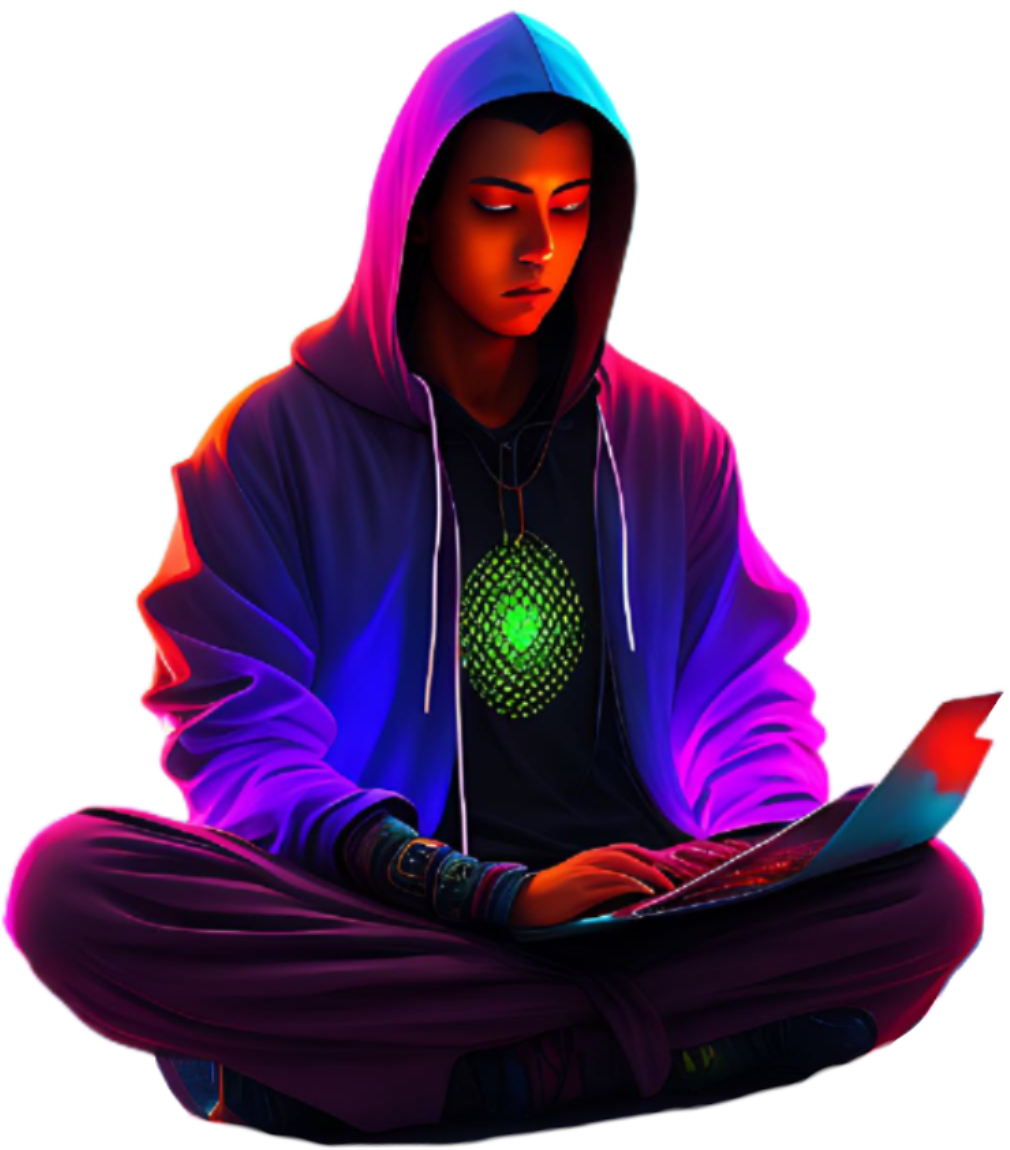
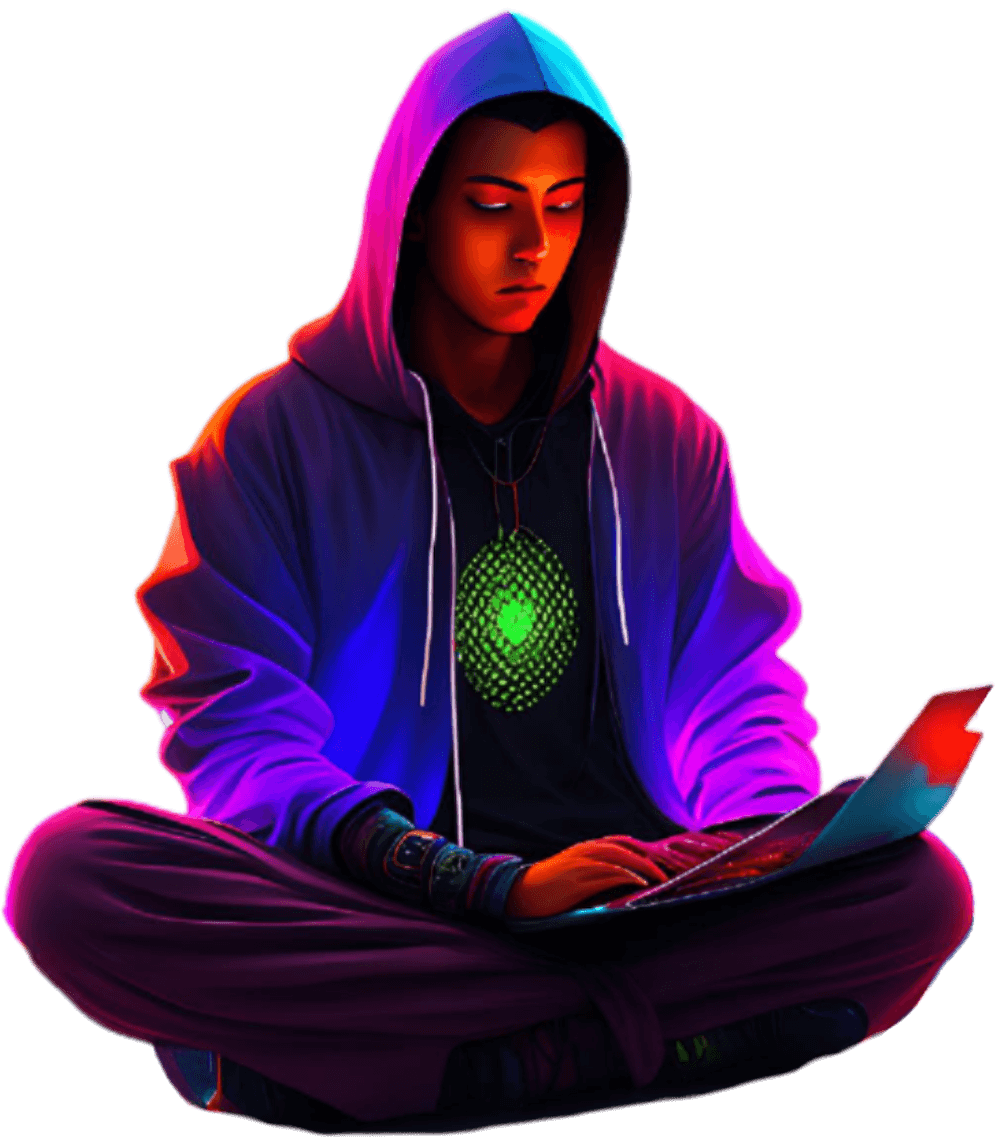
Optimize images

diff --git a/src/App.tsx b/src/App.tsx
@@ -1,78 +1,34 @@
-import { useLayoutEffect, useRef } from "react";
+import useMoveElementOnMouseMove from "./hooks/useMoveElementOnMouseMove";
+import imgBackground from "./image/background.png";
+import imgHacker from "./image/hacker.png";
+import imgBackpack from "./image/bagpack.png";
+import imgTeam from "./image/team.jpeg";
+import imgProfile from "./image/profile.png";
+import imgPython from "./image/icons/PYTHON.png";
+import imgGIT from "./image/icons/GIT.png";
+import imgGithub from "./image/icons/GITHUB.png";
+import imgTypeScript from "./image/icons/TYPESCRIPT.png";
+import imgHTML5 from "./image/icons/HTML5.png";
+import imgTerraform from "./image/icons/TERRAFORM.png";
+import imgReact from "./image/icons/REACT.png";
+import imgNodeJS from "./image/icons/NODE_JS.png";
+import imgGraphQL from "./image/icons/GRAPHQL.png";
+import imgPostgres from "./image/icons/postgres.png";
 
-const MAX_IMAGE_SHIFT = 50;
-const YEARS_OF_EXPERIENCE = new Date().getUTCFullYear() - 2015;
 const TECH_STACK_ICONS = [
-  "PYTHON",
-  "GIT",
-  "GITHUB",
-  "TYPESCRIPT",
-  "HTML5",
-  "TERRAFORM",
-  "REACT",
-  "NODE_JS",
-  "GRAPHQL",
+  imgPython,
+  imgGIT,
+  imgGithub,
+  imgTypeScript,
+  imgHTML5,
+  imgTerraform,
+  imgReact,
+  imgNodeJS,
+  imgGraphQL,
+  imgPostgres,
 ];
 const TECH_STACK_ICONS_RADIUS = 200;
-
-const getElementCenterCoordinates = (element: HTMLElement) => {
-  const rect = element.getBoundingClientRect();
-  return {
-    x: rect.x + rect.width / 2,
-    y: rect.y + rect.height / 2,
-  };
-};
-
-const useMoveElementOnMouseMove = () => {
-  const elementRef = useRef<HTMLImageElement>(null);
-  const centerRef = useRef<{ x: number; y: number } | null>(null);
-
-  useLayoutEffect(() => {
-    const onMouseMove = (e: MouseEvent) => {
-      if (elementRef.current == null) {
-        return;
-      }
-
-      if (centerRef.current == null) {
-        centerRef.current = getElementCenterCoordinates(elementRef.current);
-      }
-
-      const screenSize = { x: window.innerWidth, y: window.innerHeight };
-      const imageCenter = centerRef.current;
-      const mouseImageDistance = {
-        x: e.x - imageCenter.x,
-        y: e.y - imageCenter.y,
-      };
-      const minX = -imageCenter.x;
-      const maxX = screenSize.x - imageCenter.x;
-      const minY = -imageCenter.y;
-      const maxY = screenSize.y - imageCenter.y;
-
-      const mouseImageDistanceNormal = {
-        x:
-          mouseImageDistance.x > 0
-            ? -mouseImageDistance.x / maxX
-            : mouseImageDistance.x / minX,
-        y:
-          mouseImageDistance.y > 0
-            ? -mouseImageDistance.y / maxY
-            : mouseImageDistance.y / minY,
-      };
-
-      elementRef.current.style.transform = `translate(${
-        MAX_IMAGE_SHIFT * mouseImageDistanceNormal.x
-      }px, ${MAX_IMAGE_SHIFT * mouseImageDistanceNormal.y}px)`;
-    };
-
-    window.addEventListener("mousemove", onMouseMove);
-
-    return () => {
-      window.removeEventListener("mousemove", onMouseMove);
-    };
-  }, []);
-
-  return elementRef;
-};
+const YEARS_OF_EXPERIENCE = new Date().getUTCFullYear() - 2015;
 
 function App() {
   const hackerImageRef = useMoveElementOnMouseMove();
@@ -83,7 +39,7 @@ function App() {
   return (
     <div>
       <img
-        src="/src/image/background.png"
+        src={imgBackground}
         className="h-screen w-screen object-cover object-bottom fixed -z-10"
       />
       <section className="h-screen bg-transparent">
@@ -91,7 +47,7 @@ function App() {
           <div className="h-full flex flex-col justify-end pb-20">
             <img
               className="w-2/3 self-center"
-              src="/src/image/hacker.png"
+              src={imgHacker}
               ref={hackerImageRef}
               alt="Hacking Dave"
             />
@@ -107,18 +63,18 @@ function App() {
       <div className="bg-slate-900 drop-shadow-[0px_500px_0px_rgba(15,23,42,1)] shadow-slate-900">
         <section className="container h-screen flex gap-32 items-center">
           <div className="w-1/3 relative">
-            <img src="/src/image/bagpack.png" className="w-1/2 mx-auto" />
+            <img src={imgBackpack} className="w-1/2 mx-auto" />
             <div className="animate-spin-icons absolute top-1/2 left-1/2">
-              {TECH_STACK_ICONS.map((name, i) => {
+              {TECH_STACK_ICONS.map((imgURL, i) => {
                 const x = TECH_STACK_ICONS_RADIUS * Math.cos(iconsAngle) - 40;
                 const y = TECH_STACK_ICONS_RADIUS * Math.sin(iconsAngle) - 40;
                 iconsAngle += angleIncrement;
 
                 return (
                   <img
-                    key={name}
+                    key={imgURL}
                     className={`absolute animate-spin-icons-rev w-20 max-w-none`}
-                    src={`/src/image/icons/${name}.png`}
+                    src={imgURL}
                     style={{
                       left: `${x}px`,
                       top: `${y}px`,
@@ -166,11 +122,11 @@ function App() {
                 project goals and has the resources they need to be successful.
               </p>
             </article>
-            <img src="/src/image/team.png" className="w-1/3" />
+            <img src={imgTeam} className="w-1/3" />
           </section>
         </div>
         <section className="container h-screen flex gap-32 items-center">
-          <img src="/src/image/profile_transparent.png" className="w-1/3" />
+          <img src={imgProfile} className="w-1/3" />
           <article className="w-2/3 py-10">
             <p className="text-2xl">
               Whether you're looking to build a new software application,

diff --git a/src/hooks/useMoveElementOnMouseMove.tsx b/src/hooks/useMoveElementOnMouseMove.tsx
@@ -1,0 +1,64 @@
+import { useLayoutEffect, useRef } from "react";
+
+const MAX_IMAGE_SHIFT = 50;
+
+const getElementCenterCoordinates = (element: HTMLElement) => {
+  const rect = element.getBoundingClientRect();
+  return {
+    x: rect.x + rect.width / 2,
+    y: rect.y + rect.height / 2,
+  };
+};
+
+const useMoveElementOnMouseMove = () => {
+  const elementRef = useRef<HTMLImageElement>(null);
+  const centerRef = useRef<{ x: number; y: number } | null>(null);
+
+  useLayoutEffect(() => {
+    const onMouseMove = (e: MouseEvent) => {
+      if (elementRef.current == null) {
+        return;
+      }
+
+      if (centerRef.current == null) {
+        centerRef.current = getElementCenterCoordinates(elementRef.current);
+      }
+
+      const screenSize = { x: window.innerWidth, y: window.innerHeight };
+      const imageCenter = centerRef.current;
+      const mouseImageDistance = {
+        x: e.x - imageCenter.x,
+        y: e.y - imageCenter.y,
+      };
+      const minX = -imageCenter.x;
+      const maxX = screenSize.x - imageCenter.x;
+      const minY = -imageCenter.y;
+      const maxY = screenSize.y - imageCenter.y;
+
+      const mouseImageDistanceNormal = {
+        x:
+          mouseImageDistance.x > 0
+            ? -mouseImageDistance.x / maxX
+            : mouseImageDistance.x / minX,
+        y:
+          mouseImageDistance.y > 0
+            ? -mouseImageDistance.y / maxY
+            : mouseImageDistance.y / minY,
+      };
+
+      elementRef.current.style.transform = `translate(${
+        MAX_IMAGE_SHIFT * mouseImageDistanceNormal.x
+      }px, ${MAX_IMAGE_SHIFT * mouseImageDistanceNormal.y}px)`;
+    };
+
+    window.addEventListener("mousemove", onMouseMove);
+
+    return () => {
+      window.removeEventListener("mousemove", onMouseMove);
+    };
+  }, []);
+
+  return elementRef;
+};
+
+export default useMoveElementOnMouseMove;
